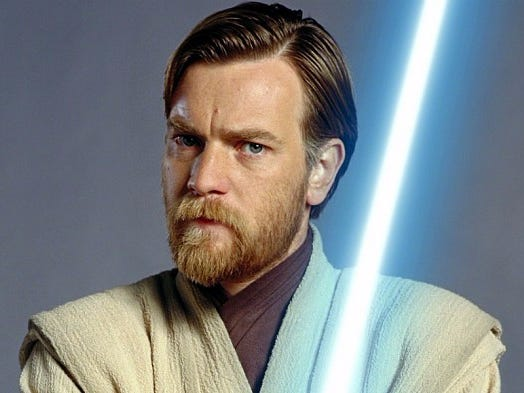
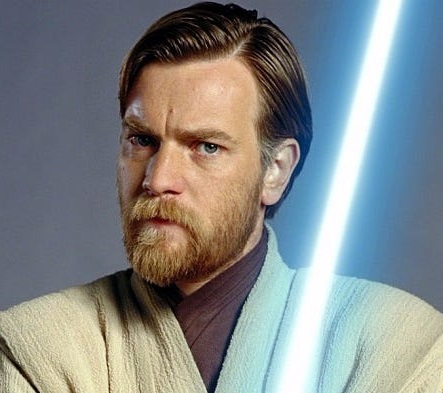
rounded edges on image

diff --git a/lib/screens/LandingScreen.dart b/lib/screens/LandingScreen.dart
@@ -66,7 +66,11 @@ class LandingScreen extends StatelessWidget {
                       ],
                     ),
                     // profile pic
-                      Image.asset("images/obiwan_profile.jpg", width: 300, height: 300),
+                    //   new Image.asset("images/obiwan_profile.jpg", width: 200, height: 200),
+                      ClipRRect(
+                        borderRadius: BorderRadius.circular(30.0),
+                        child: Image(image: AssetImage("images/obiwan_profile.jpg"), width: 200, height:200,),
+                    ),
                   ],
                 ),
               ),
@@ -87,10 +91,10 @@ class LandingScreen extends StatelessWidget {
                 children: <Widget>[
                   Align(
                     alignment: Alignment.topCenter,
-                    child: Image.asset("images/obiwan_qrcode.png", 
+                    child: new Image.asset("images/obiwan_qrcode.png",
                                         fit: BoxFit.fitHeight, 
-                                        width: 400, 
-                                        height: 400,),
+                                        width: 300,
+                                        height: 300,),
                   )
                 ],
               ),

diff --git a/lib/utils/widget_functions.dart b/lib/utils/widget_functions.dart
@@ -22,7 +22,7 @@ Widget addDetailField(String header, String value, double padding, ThemeData the
               children: [
                 Text(header, style: themeData.textTheme.bodyText2,),
                 addVerticalSpace(2),
-                Text(value, style: themeData.textTheme.headline2,),
+                Text(value, style: themeData.textTheme.headline3,),
               ],
             )
           );
